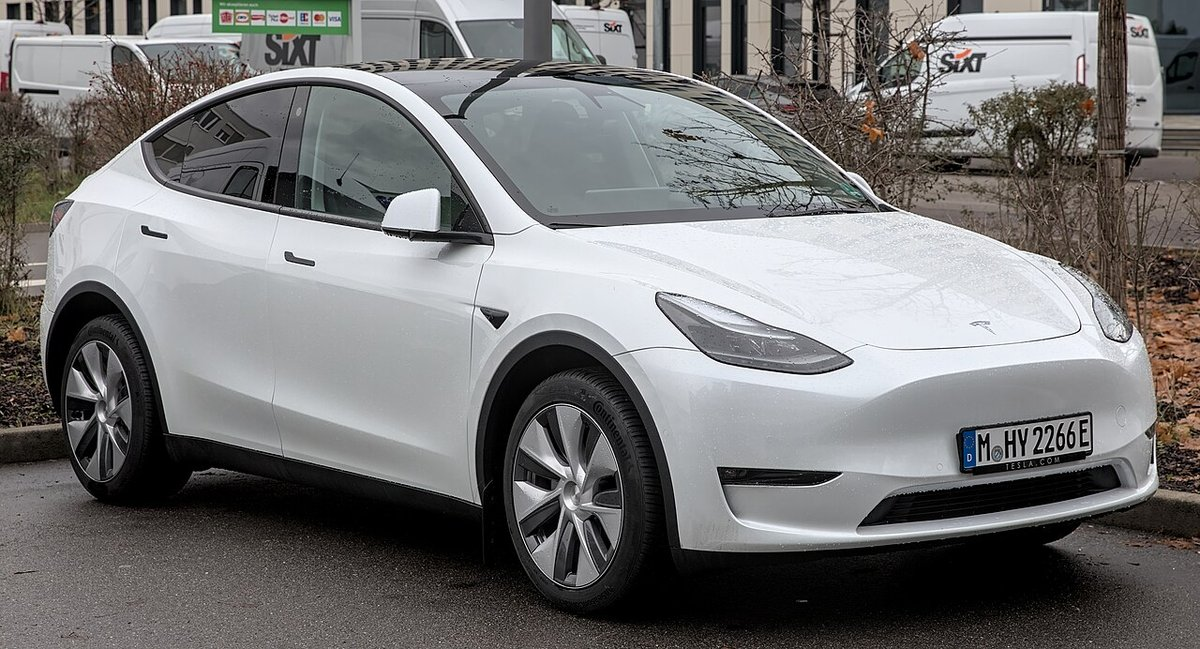
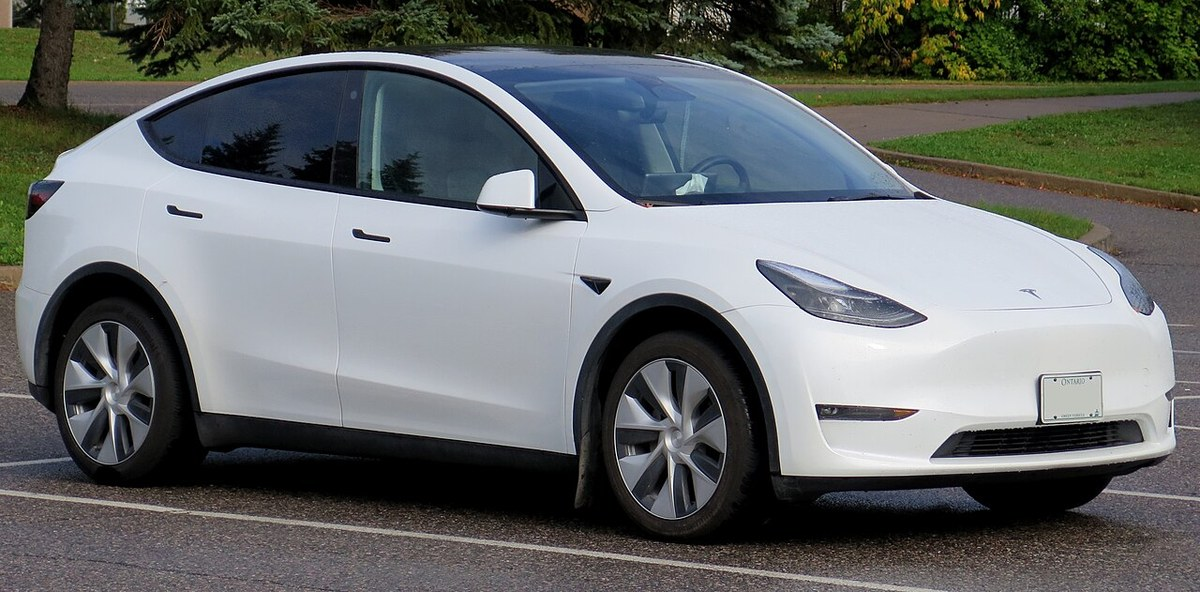
Sýna Tesla Model Y og Skoda Octavia með raunmyndum í ráðgjafarpanil

diff --git a/index.html b/index.html
@@ -2154,24 +2154,33 @@
               </div>
 
               <div class="rec-houses-grid">
-                <!-- Leggur 1 & 4: Comwell / City Hotel Nattergalen / Odeon Odense -->
+                <!-- Leggur 1 & 4: Hotel Knudsens Gaard / Comwell Odense -->
                 <div class="rec-house-item rec-gold">
                   <span class="rec-house-badge badge-gold">🏨 LEGGUR 1 & 4: ÓÐINSVÉ (2+1 NÓTT)</span>
-                  <img src="https://images.trvl-media.com/lodging/1000000/30000/23700/23648/29df898a.jpg?impolicy=fcrop&w=1200&h=800" alt="Comwell H.C. Andersen Odense" class="rec-house-img" loading="lazy" />
+                  <div style="display: grid; grid-template-columns: 1fr 1fr; gap: 4px; margin-bottom: 6px;">
+                    <div style="position: relative;">
+                      <img src="https://images.trvl-media.com/lodging/1000000/30000/22300/22263/fbb09fb3.jpg?impolicy=fcrop&w=1200&h=800" alt="Hotel Knudsens Gaard" style="height: 150px; object-fit: cover; width: 100%; border-radius: 6px;" loading="lazy" />
+                      <span style="position: absolute; bottom: 6px; left: 6px; background: rgba(0,0,0,0.75); color: white; padding: 2px 6px; border-radius: 4px; font-size: 0.72rem; font-weight: 700;">⭐ Knudsens Gaard (14.694 kr.)</span>
+                    </div>
+                    <div style="position: relative;">
+                      <img src="https://images.trvl-media.com/lodging/1000000/30000/23700/23648/29df898a.jpg?impolicy=fcrop&w=1200&h=800" alt="Comwell H.C. Andersen" style="height: 150px; object-fit: cover; width: 100%; border-radius: 6px;" loading="lazy" />
+                      <span style="position: absolute; bottom: 6px; left: 6px; background: rgba(0,0,0,0.75); color: white; padding: 2px 6px; border-radius: 4px; font-size: 0.72rem; font-weight: 700;">⭐ Comwell (21.032 kr.)</span>
+                    </div>
+                  </div>
                   <div class="rec-house-body">
-                    <div class="rec-house-title">Comwell H. C. Andersen Odense (eða City Hotel Nattergalen / Odeon)</div>
-                    <div class="rec-house-price">21.032 kr./nótt <span style="font-size: 0.78rem; font-weight: 600; color: var(--text-muted);">(42.064 kr. alls 17.–19. feb m/ sköttum)</span></div>
+                    <div class="rec-house-title">Hotel Knudsens Gaard eða Comwell H. C. Andersen</div>
+                    <div class="rec-house-price">14.694 – 21.032 kr./nótt <span style="font-size: 0.78rem; font-weight: 600; color: var(--text-muted);">(Félagaverð á Hotels.com m/ sköttum)</span></div>
                     <div class="rec-house-specs">
-                      <span>⭐ 8,8 / 10</span> · <span>📍 H.C. Andersen hverfið</span> · <span>🅿 Bílastæði við hótel</span>
+                      <span>⭐ 8,8 / 10</span> · <span>🅿 Ókeypis bílastæði hjá Knudsens Gaard</span> · <span>📍 Miðbær & H.C. Andersen</span>
                     </div>
                     <ul class="rec-house-highlights" style="padding-left: 18px; margin: 0 0 14px 0;">
-                      <li><strong>Comwell H.C. Andersen:</strong> Standard <strong>42.064 kr.</strong> (21.032 kr./nótt), Deluxe <strong>53.374 kr.</strong>, Superior m/ morgunmat <strong>60.196 kr.</strong></li>
-                      <li><strong>Með ókeypis bílastæði (úr opnum flipum):</strong> <em>City Hotel Nattergalen</em> (<strong>31.403 kr.</strong> / 15.702 kr./nótt) eða <em>Amalie B&B</em> (<strong>21.892 kr.</strong> / 10.946 kr./nótt).</li>
-                      <li><strong>Hotel Odeon (vistað í Trips):</strong> ~25.900 kr./nótt (51.800 kr. alls m/ morgunverði).</li>
+                      <li><strong>Hotel Knudsens Gaard:</strong> <strong>14.694 kr./nótt</strong> (29.388 kr. 2 nætur, 10% félagaafsláttur · var 32.652 kr.). Friðsælt sögulegt sveitahótel í bænum með ókeypis bílastæði og toppeinkunn 8,8/10.</li>
+                      <li><strong>Comwell H.C. Andersen:</strong> Standard <strong>21.032 kr./nótt</strong> (42.064 kr. alls), Deluxe 26.687 kr., Superior 30.098 kr.</li>
+                      <li><strong>Aðrir kostir:</strong> <em>Amalie B&B</em> (<strong>10.946 kr.</strong> / 20% afsláttur) eða <em>Hotel Odeon</em> (<strong>24.735 kr.</strong> m/ morgunverði).</li>
                     </ul>
                     <div class="rec-house-actions">
-                      <button type="button" class="rec-btn-jump" onclick="jumpToHouse('hotel_comwell_odense_1')">Skoða á síðunni ⬇</button>
-                      <a href="https://is.hotels.com/ho131670/comwell-h-c-andersen-odense-odense-danmork/?chkin=2027-02-17&chkout=2027-02-19&rm1=a2&regionId=2638" target="_blank" rel="noopener" class="rec-btn-airbnb">is.hotels.com ↗</a>
+                      <button type="button" class="rec-btn-jump" onclick="jumpToHouse('hotel_knudsens_gaard_odense')">Knudsens Gaard ⬇</button>
+                      <button type="button" class="rec-btn-jump" style="background:#475569;" onclick="jumpToHouse('hotel_comwell_odense_1')">Comwell ⬇</button>
                     </div>
                   </div>
                 </div>
@@ -2223,7 +2232,16 @@
                 <!-- Bílaleigubíll: Tesla Model Y / Skoda Octavia Combi (Óðinsvé 4d eða CPH 6d) -->
                 <div class="rec-house-item" style="border: 2px solid #0284c7;">
                   <span class="rec-house-badge" style="background: linear-gradient(135deg, #0284c7, #38bdf8); color: white;">⚡ BÍLALEIGA: TESLA MODEL Y EÐA SKODA OCTAVIA (ÓÐINSVÉ 4D / CPH 6D)</span>
-                  <img src="img/cars/tesla_model_y.jpg" alt="Tesla Model Y & Skoda Octavia Combi" class="rec-house-img" loading="lazy" />
+                  <div style="display: grid; grid-template-columns: 1fr 1fr; gap: 4px; margin-bottom: 6px;">
+                    <div style="position: relative;">
+                      <img src="img/cars/tesla_model_y.jpg?v=2" alt="Tesla Model Y Long Range AWD (Hvítt)" style="height: 150px; object-fit: cover; width: 100%; border-radius: 6px;" loading="lazy" />
+                      <span style="position: absolute; bottom: 6px; left: 6px; background: rgba(0,0,0,0.75); color: white; padding: 2px 6px; border-radius: 4px; font-size: 0.72rem; font-weight: 700;">⚡ Tesla Model Y (~42.424 kr.)</span>
+                    </div>
+                    <div style="position: relative;">
+                      <img src="img/cars/skoda_octavia.jpg?v=2" alt="Skoda Octavia Combi Station" style="height: 150px; object-fit: cover; width: 100%; border-radius: 6px;" loading="lazy" />
+                      <span style="position: absolute; bottom: 6px; left: 6px; background: rgba(0,0,0,0.75); color: white; padding: 2px 6px; border-radius: 4px; font-size: 0.72rem; font-weight: 700;">🚗 Skoda Octavia (~29.372 kr.)</span>
+                    </div>
+                  </div>
                   <div class="rec-house-body">
                     <div class="rec-house-title">⚡ Tesla Model Y Long Range eða Skoda Octavia Combi</div>
                     <div class="rec-house-price">4 dagar í Óðinsvéum: ~29.372 – 42.424 kr. <span style="font-size: 0.78rem; font-weight: 600; color: var(--text-muted);">(eða 6 dagar á CPH: 44.057 – 63.638 kr.)</span></div>
